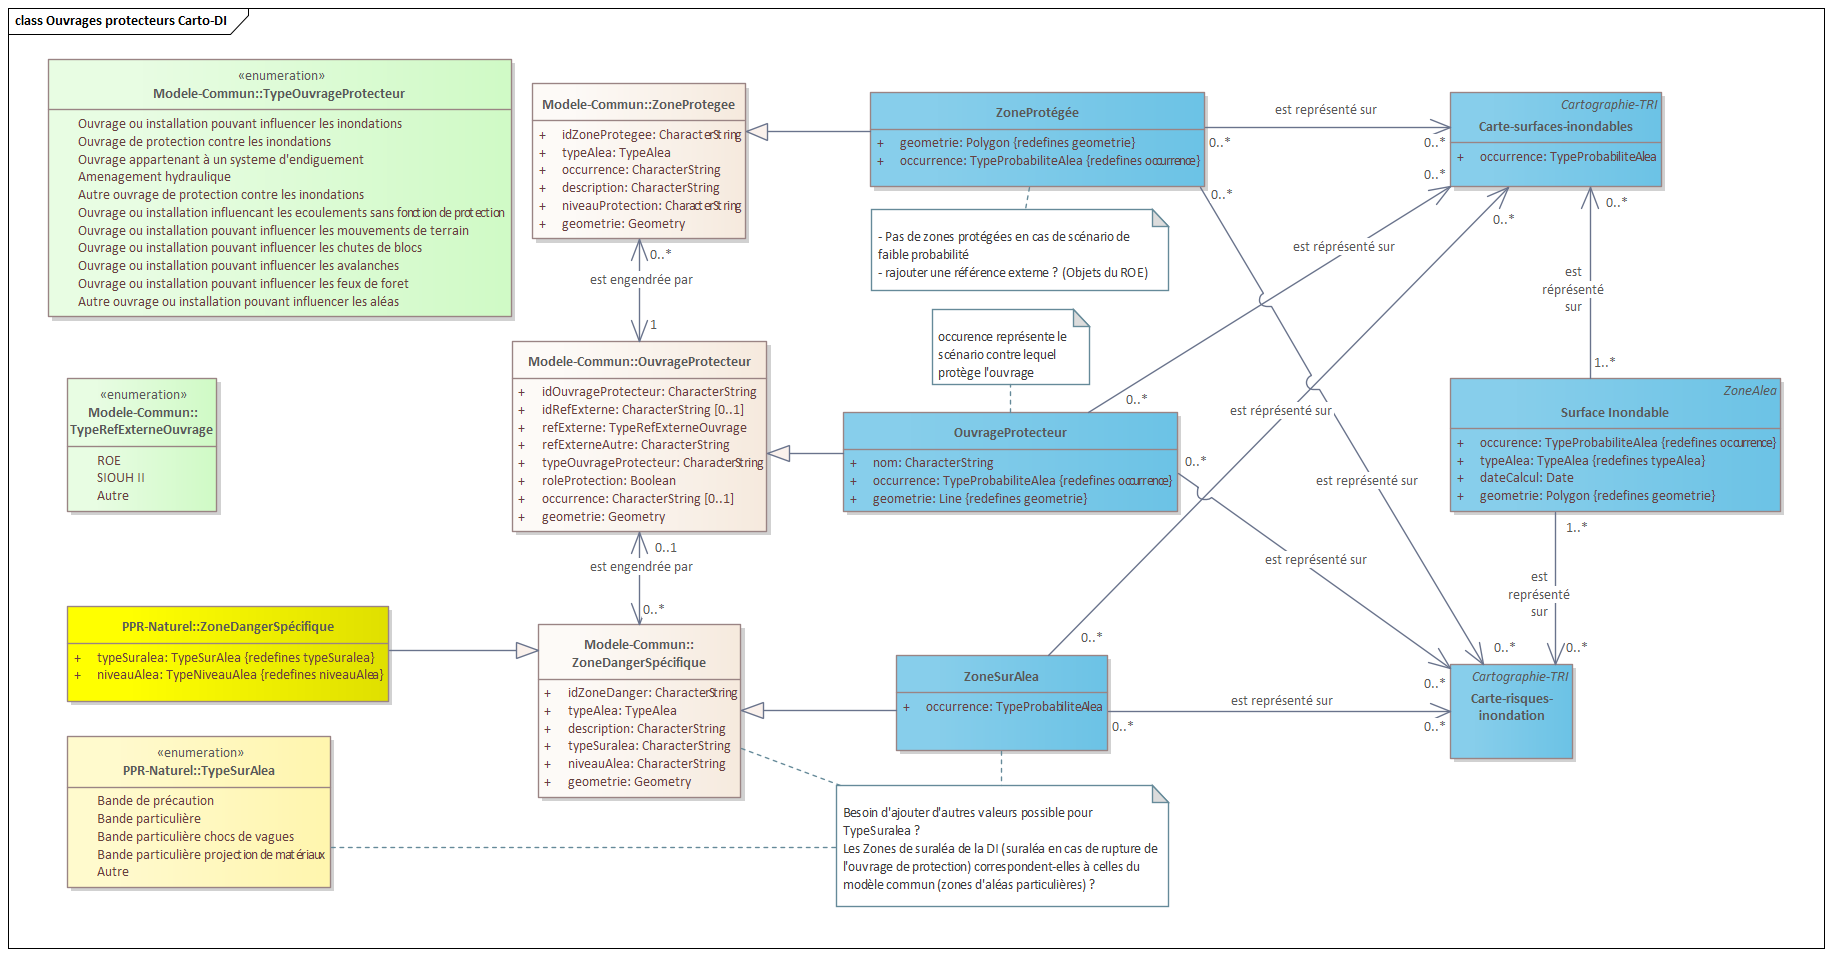
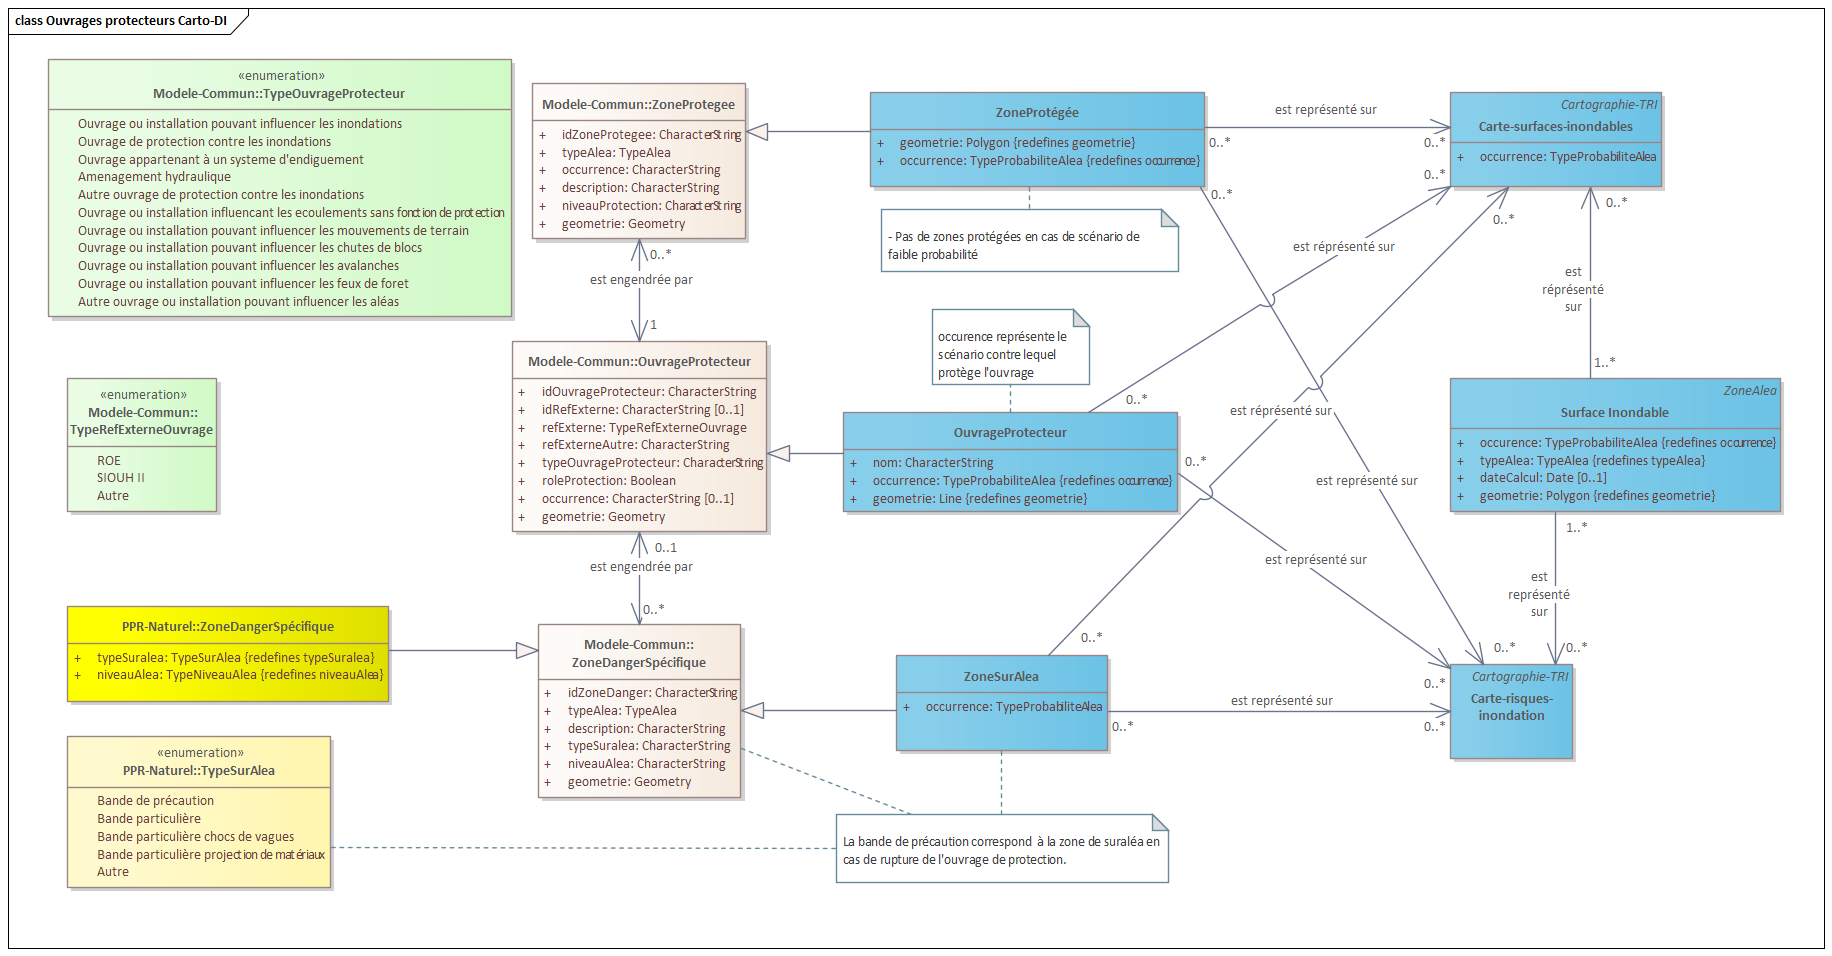
ajout des diagrammes UML pour les enjeux et modifications des autres diagrammes suite au cinquieme atelier carto DI.

diff --git a/standard/Document.md b/standard/Document.md
@@ -345,11 +345,19 @@ Le diagramme UML suivant représente les classes décrivant les surfaces inondab
 Le diagramme UML suivant représente les classes décrivant les ouvrages protecteurs, les zones de sur aléa qu'ils engendrent et les zones protégées pouvant être représentés sur les cartes de surfaces inondables et les cartes de risques.
 
 ![Schéma UML Procédure et cartes](./ressources/UML-Ouvrages-protecteurs-Carto-DI.png)
-{#fig:uml-surfaces-inondables-img}
+{#fig:uml-ouvrages-protecteurs-img}
 
 ### Représentation des enjeux
 
-TBD
+Le diagramme UML suivant représente les classes décrivant les enjeux et leur intégration dans les cartes de risques.
+
+![Schéma UML Enjeux](./ressources/UML-Enjeux-Carto-DI.png)
+{#fig:uml-enjeux-img}
+
+Les enjeux représentés sur les cartes de risques sont les suivants :
+
+* Les [enjeux rapportés au TRI]() en fonction de l'occurrence probable de l'aléa relatent du nombre d'habitants et d'emplois touchés par l'inondation sur le périmètre du TRI. Ils ont vocation a être mentionnés sous forme de cartouche de la carte de risque ;
+* Les objets de la classe [Enjeu]() héritée du modèle commun, localisés sur la carte dont la classification se fait selon la nomenclature des enjeux PPRN enrichie pour les besoins spécifiques de la directive inondation ([NomenclatureCartoDI]()).
 
 
 ## Catalogue d'objets
@@ -544,6 +552,7 @@ Le management de la donnée représente une vision de l’information, non pas c
 `<Cette partie vise à fournir des instructions, des exigences, conventions d’échange et/ou des descriptions du format de diffusion des données et des moyens de livraison physique, ou bien des moyens de diffusion de données via des services de téléchargement ou d'affichage.>` 
 
 # Métadonnées
+
 ## Généralités
 
 Chaque jeu de données doit obligatoirement être accompagné de ses métadonnées conformes (selon la réglementation applicable : INSPIRE, HVD, etc. et les bonnes pratiques en vigueur), afin de mettre en évidence les informations essentielles contenues et ainsi permettre la réutilisation des données.  
@@ -561,12 +570,11 @@ Les données `de la thématique sont / ne sont` pas référencées par INSPIRE. 
 `- ...`
   
 ## Eléments de métadonnées
+
 ### Consignes de nommage du fichier de métadonnées
 |  |  |
 |---|---|
-| _**Consignes de nommage du fichier**_ (recommandation) | Le fichier de métadonnées est nommé:<br>fr-<SIREN>-thème<date>.xml<br>L’identificateur de la métadonnée pour les données du thème est constitué de deux blocs :
-- bloc identifiant `le producteur / gestionnaire /autorité` : fr-<SIREN>
-- bloc identifiant la donnée : -`thème`<date>      |
+| _**Consignes de nommage du fichier**_ (recommandation) | Le fichier de métadonnées est nommé:<br>fr-<SIREN>-thème<date>.xml<br>L’identificateur de la métadonnée pour les données du thème est constitué de deux blocs : (1) bloc identifiant `le producteur / gestionnaire /autorité` : fr-<SIREN> (2) bloc identifiant la donnée : -`thème`<date>      |
 | Exemple | _Le nom du fichier de métadonnées du thème portant le numéro SIREN 422270515 publiées le 22 avril 2021, prend la forme :_<br><br>_fr-422270515-theme20210422.xml_    |
 
 ### Identification des données
